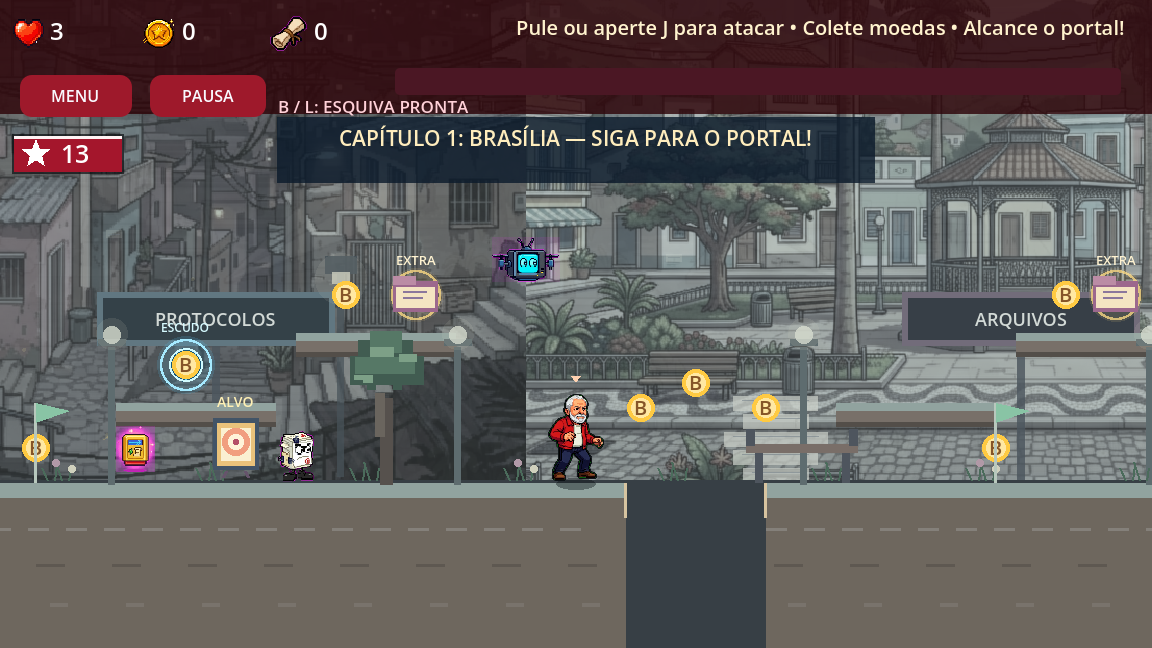
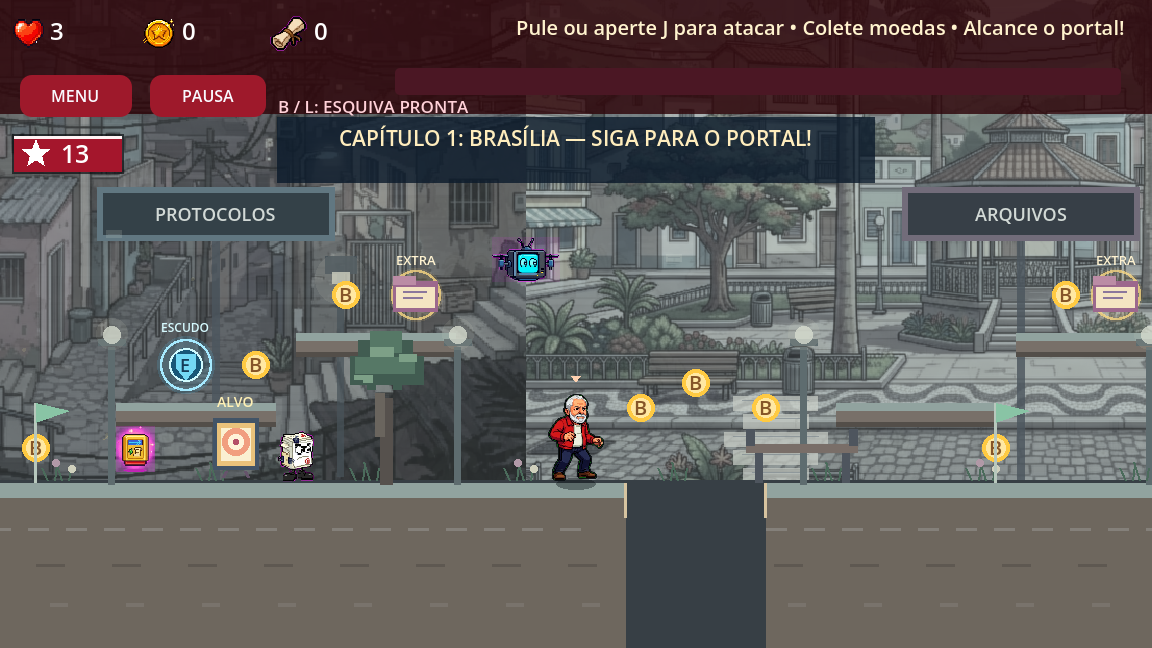
Publish final readable signage and pickups for level design V2

diff --git a/validacao-visual/13/index.html b/validacao-visual/13/index.html
@@ -118,7 +118,7 @@ const GODOT_THREADS_ENABLED = false;
 const engine = new Engine(GODOT_CONFIG);
 async function prepareSplitPack(){
 if(!('serviceWorker' in navigator))throw Error('Este navegador precisa suportar Service Workers.');
-await navigator.serviceWorker.register('./pack-sw.js?v=e1ea9c1e68b2',{scope:'./'});await navigator.serviceWorker.ready;
+await navigator.serviceWorker.register('./pack-sw.js?v=8cc25365ef40',{scope:'./'});await navigator.serviceWorker.ready;
 if(!navigator.serviceWorker.controller){
 await new Promise((resolve,reject)=>{
 const timeout=setTimeout(()=>reject(Error('Falha no carregador. Atualize a pagina.')),15000);

diff --git a/validacao-visual/22/index.html b/validacao-visual/22/index.html
@@ -118,7 +118,7 @@ const GODOT_THREADS_ENABLED = false;
 const engine = new Engine(GODOT_CONFIG);
 async function prepareSplitPack(){
 if(!('serviceWorker' in navigator))throw Error('Este navegador precisa suportar Service Workers.');
-await navigator.serviceWorker.register('./pack-sw.js?v=953759f84a64',{scope:'./'});await navigator.serviceWorker.ready;
+await navigator.serviceWorker.register('./pack-sw.js?v=9fc8c8ac5a0f',{scope:'./'});await navigator.serviceWorker.ready;
 if(!navigator.serviceWorker.controller){
 await new Promise((resolve,reject)=>{
 const timeout=setTimeout(()=>reject(Error('Falha no carregador. Atualize a pagina.')),15000);

diff --git a/validacao-visual/13/pack-sw.js b/validacao-visual/13/pack-sw.js
@@ -1,5 +1,5 @@
 'use strict';
-const BUILD_VERSION = 'e1ea9c1e68b2';
+const BUILD_VERSION = '8cc25365ef40';
 const PARTS = ["index.pck.part01","index.pck.part02","index.pck.part03"];
 self.addEventListener('install',e=>e.waitUntil(self.skipWaiting()));
 self.addEventListener('activate',e=>e.waitUntil(self.clients.claim()));

diff --git a/validacao-visual/22/pack-sw.js b/validacao-visual/22/pack-sw.js
@@ -1,5 +1,5 @@
 'use strict';
-const BUILD_VERSION = '953759f84a64';
+const BUILD_VERSION = '9fc8c8ac5a0f';
 const PARTS = ["index.pck.part01","index.pck.part02","index.pck.part03"];
 self.addEventListener('install',e=>e.waitUntil(self.skipWaiting()));
 self.addEventListener('activate',e=>e.waitUntil(self.clients.claim()));
